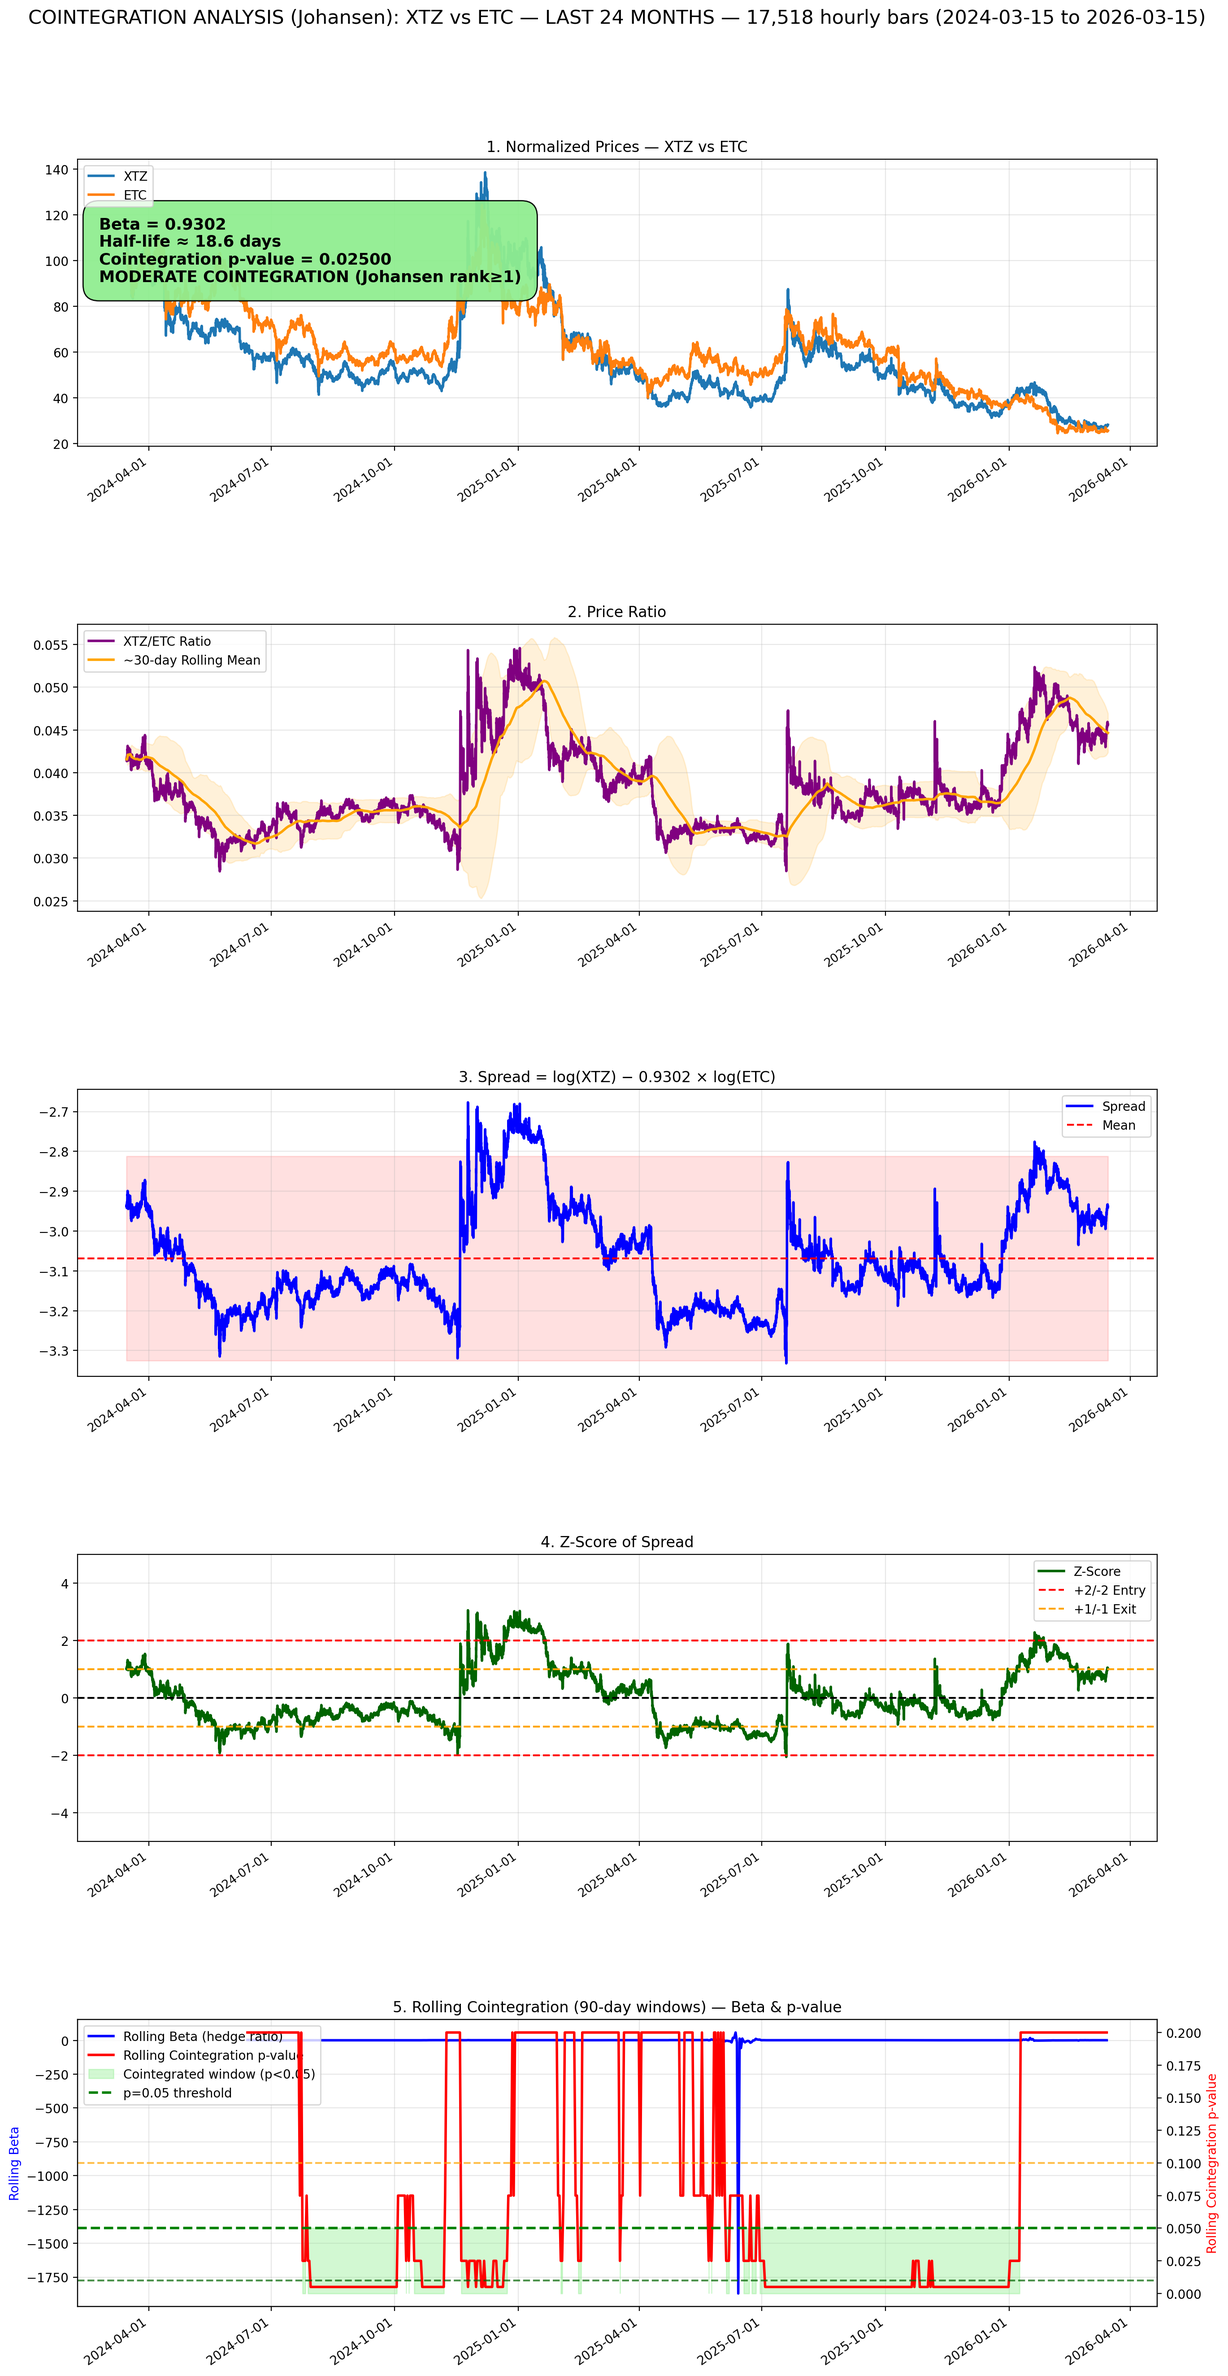
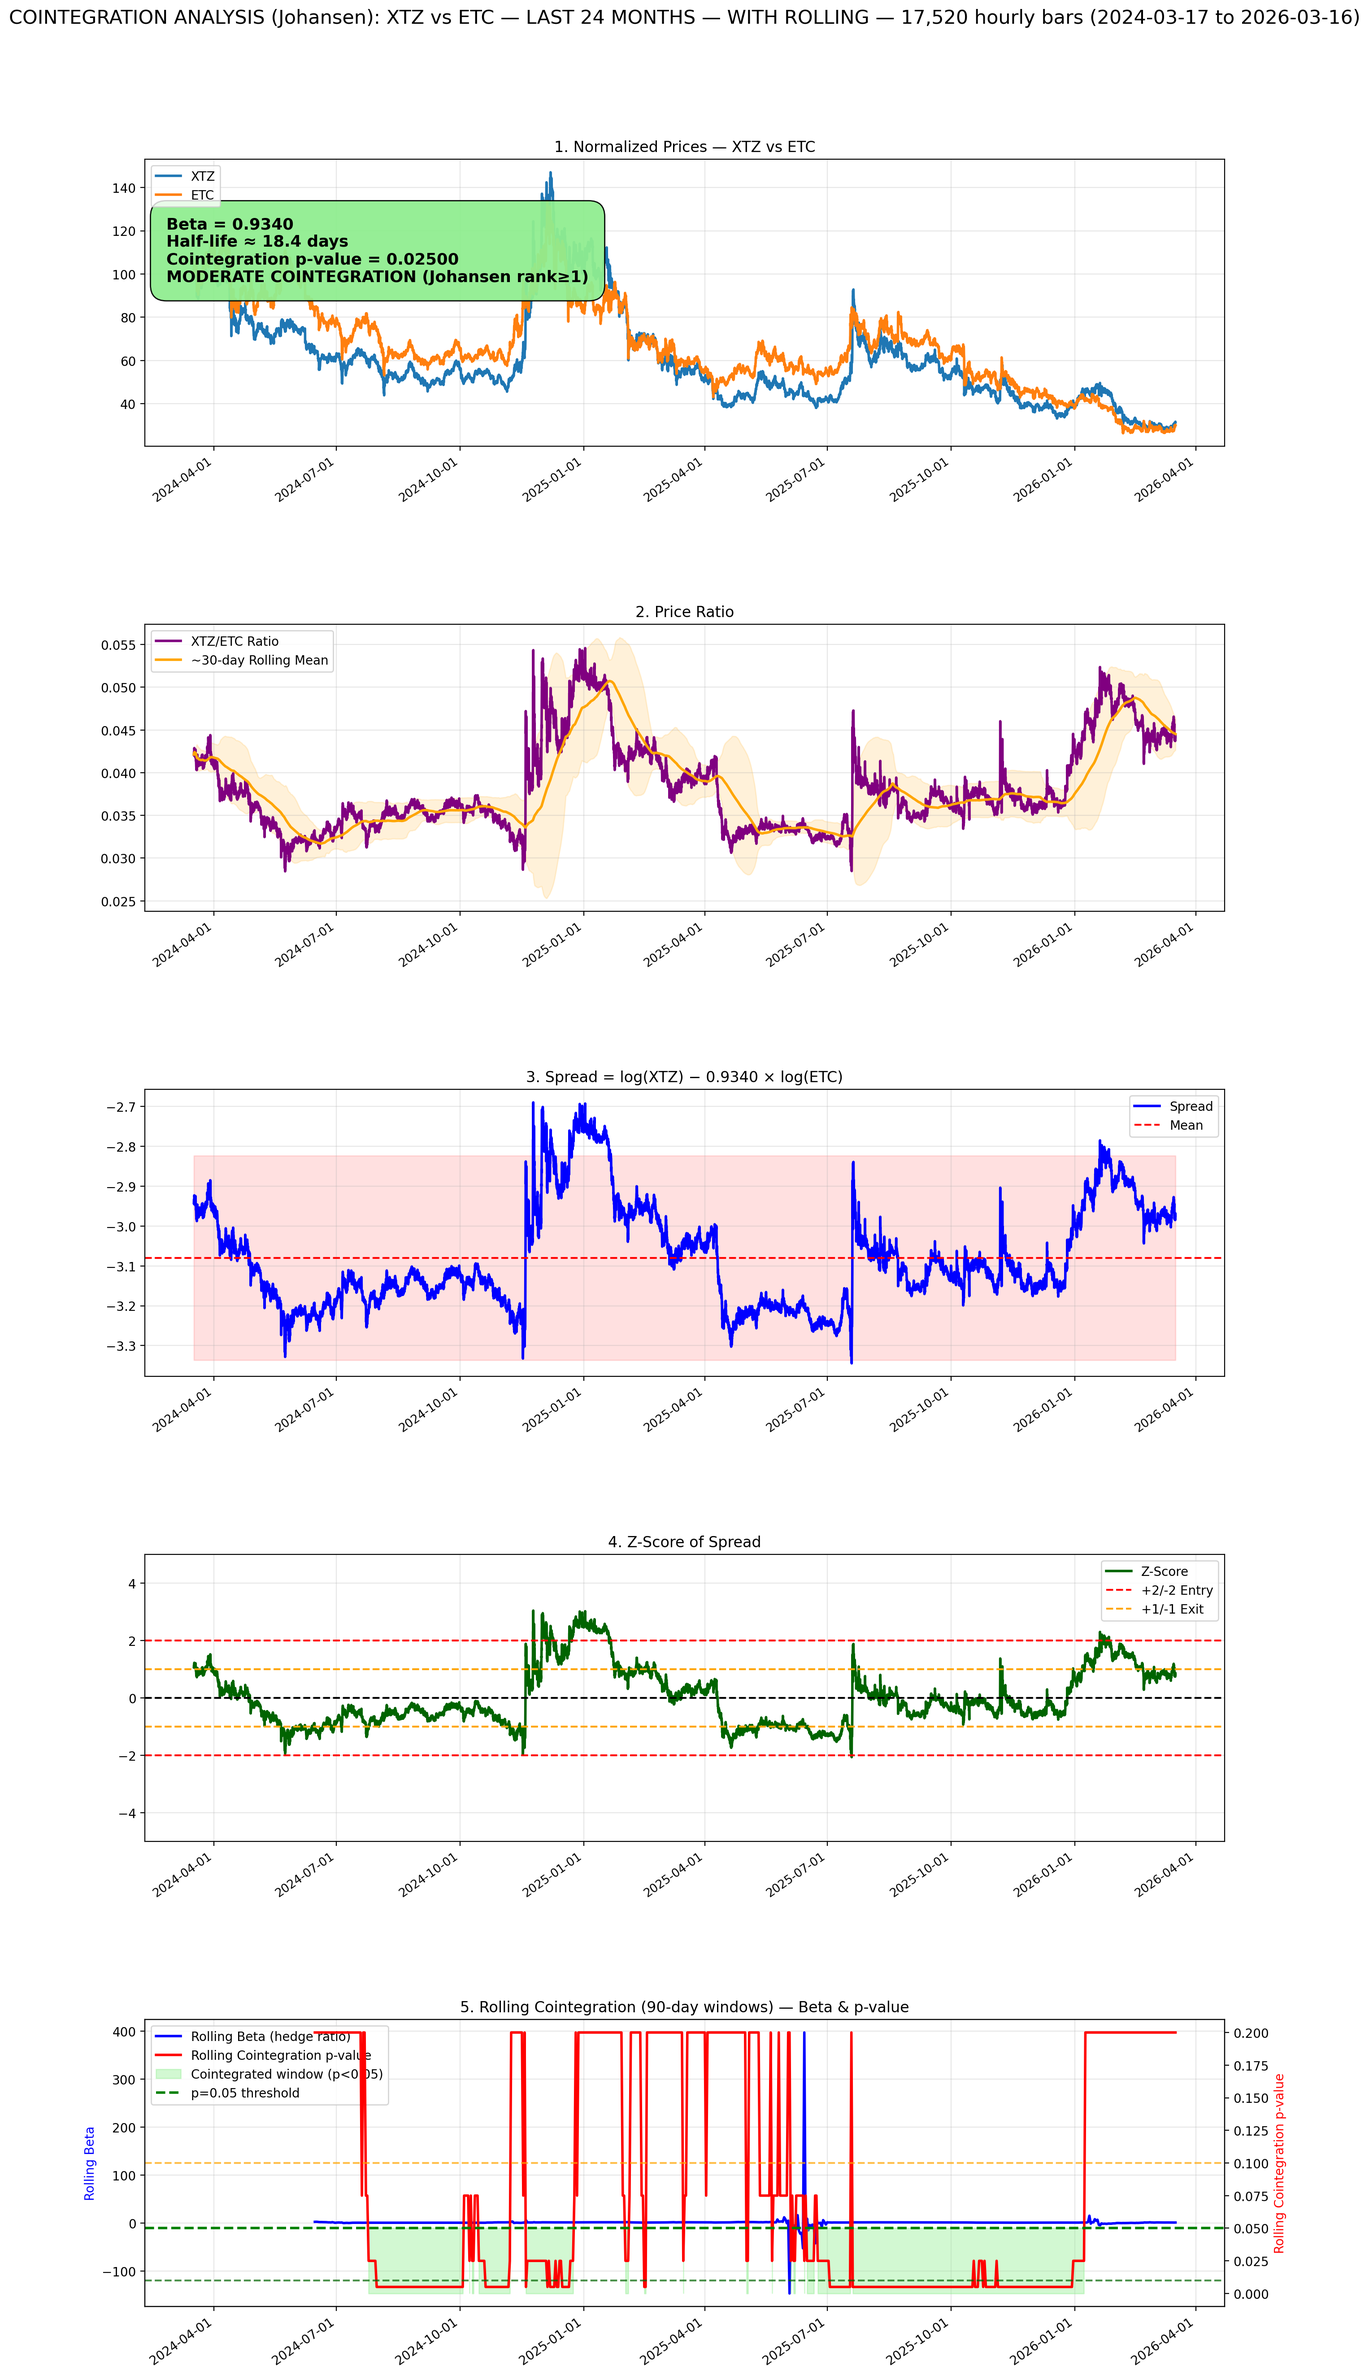
rolling calculations on or off

diff --git a/src/pcv2/draw_cointegration_chart.py b/src/pcv2/draw_cointegration_chart.py
@@ -2,7 +2,7 @@ import matplotlib.pyplot as plt
 import pandas as pd
 import numpy as np
 import sys
-import matplotlib.dates as mdates                     # ← NEW: for clean date formatting on all charts
+import matplotlib.dates as mdates
 from get_cointegration import CointegrationAnalyzer
 from config import DEFAULT_COINTEGRATION_CORRELATION_MONTHS as DEFAULT_MAX_MONTHS, DEFAULT_CSV_FILE
 
@@ -10,22 +10,21 @@ from config import DEFAULT_COINTEGRATION_CORRELATION_MONTHS as DEFAULT_MAX_MONTH
 class CointegrationChart:
     """Only responsible for visualization. All heavy lifting is done by the analyzer."""
 
-    def __init__(self, sym1: str, sym2: str, csv_file: str = None, max_months: int = DEFAULT_MAX_MONTHS):
+    def __init__(self, sym1: str, sym2: str, csv_file: str = None, 
+                 max_months: int = DEFAULT_MAX_MONTHS, compute_rolling: bool = True):
         self.max_months = max_months
-        self.analyzer = CointegrationAnalyzer(sym1, sym2, csv_file, max_months)
+        self.compute_rolling = compute_rolling                     # ← NEW
+        self.analyzer = CointegrationAnalyzer(sym1, sym2, csv_file, max_months, compute_rolling)
 
     def generate(self):
-        # === 1. Compute everything (one clean call) ===
         results = self.analyzer.compute()
 
-        # === NEW: Prepare method strings (filename now uses _ per your request) ===
-        method_filename = results.method_used.lower()                    # ← CHANGED: engle_granger (no hyphen)
+        method_filename = results.method_used.lower()
         method_display = results.method_used.replace('_', ' ').title().replace(' ', '-')
 
-        # ====================== 5 CHARTS ======================
         fig, axs = plt.subplots(5, 1, figsize=(14, 28),
                                 sharex=True,
-                                gridspec_kw={'hspace': 0.62},          # ← INCREASED for date labels
+                                gridspec_kw={'hspace': 0.62},
                                 constrained_layout=False)
 
         fig.subplots_adjust(top=0.905, bottom=0.05, left=0.07, right=0.93, hspace=0.62)
@@ -88,70 +87,80 @@ class CointegrationChart:
         axs[3].grid(True, alpha=0.3)
         axs[3].set_ylim(-5, 5)
 
-        # CHART 5 – Rolling Beta & p-value (unchanged)
+        # ==================== CHART 5 – ROLLING (NOW OPTIONAL) ====================
         ax_beta = axs[4]
-        ax_p = ax_beta.twinx()
-        ax_beta.plot(results.rolling_dates, results.rolling_betas,
-                     color='blue', linewidth=2, label='Rolling Beta (hedge ratio)')
-        ax_p.plot(results.rolling_dates, results.rolling_pvals,
-                  color='red', linewidth=2, label='Rolling Cointegration p-value')
+        if self.compute_rolling and results.rolling_dates:
+            ax_p = ax_beta.twinx()
+            ax_beta.plot(results.rolling_dates, results.rolling_betas,
+                         color='blue', linewidth=2, label='Rolling Beta (hedge ratio)')
+            ax_p.plot(results.rolling_dates, results.rolling_pvals,
+                      color='red', linewidth=2, label='Rolling Cointegration p-value')
 
-        dates_arr = pd.to_datetime(results.rolling_dates)
-        mask = np.array(results.rolling_pvals) < 0.05
-        ax_p.fill_between(dates_arr, 0, 0.05, where=mask,
-                          color='lightgreen', alpha=0.4,
-                          label='Cointegrated window (p<0.05)')
+            dates_arr = pd.to_datetime(results.rolling_dates)
+            mask = np.array(results.rolling_pvals) < 0.05
+            ax_p.fill_between(dates_arr, 0, 0.05, where=mask,
+                              color='lightgreen', alpha=0.4,
+                              label='Cointegrated window (p<0.05)')
 
-        ax_p.axhline(0.01, color='darkgreen', linestyle='--', alpha=0.7)
-        ax_p.axhline(0.05, color='green', linestyle='--', linewidth=2, label='p=0.05 threshold')
-        ax_p.axhline(0.10, color='orange', linestyle='--', alpha=0.7)
+            ax_p.axhline(0.01, color='darkgreen', linestyle='--', alpha=0.7)
+            ax_p.axhline(0.05, color='green', linestyle='--', linewidth=2, label='p=0.05 threshold')
+            ax_p.axhline(0.10, color='orange', linestyle='--', alpha=0.7)
 
-        ax_beta.set_ylabel('Rolling Beta', color='blue')
-        ax_p.set_ylabel('Rolling Cointegration p-value', color='red')
-        ax_beta.set_title(f"5. Rolling Cointegration ({self.analyzer.ROLLING_WINDOW_DAYS}-day windows) — Beta & p-value")
-        ax_beta.grid(True, alpha=0.3)
+            ax_beta.set_ylabel('Rolling Beta', color='blue')
+            ax_p.set_ylabel('Rolling Cointegration p-value', color='red')
+            ax_beta.set_title(f"5. Rolling Cointegration ({self.analyzer.ROLLING_WINDOW_DAYS}-day windows) — Beta & p-value")
+            ax_beta.grid(True, alpha=0.3)
 
-        lines1, labels1 = ax_beta.get_legend_handles_labels()
-        lines2, labels2 = ax_p.get_legend_handles_labels()
-        ax_beta.legend(lines1 + lines2, labels1 + labels2, loc='upper left', fontsize=10)
+            lines1, labels1 = ax_beta.get_legend_handles_labels()
+            lines2, labels2 = ax_p.get_legend_handles_labels()
+            ax_beta.legend(lines1 + lines2, labels1 + labels2, loc='upper left', fontsize=10)
+        else:
+            # Disabled panel (clean visual feedback)
+            ax_beta.text(0.5, 0.5,
+                         "ROLLING COINTEGRATION\n\n"
+                         "DISABLED\n\n"
+                         "(compute_rolling=False)",
+                         transform=ax_beta.transAxes, ha='center', va='center',
+                         fontsize=14, fontweight='bold', color='#555555')
+            ax_beta.set_title("5. Rolling Cointegration — DISABLED")
+            ax_beta.set_facecolor('#f8f8f8')
 
         # ================== SHOW DATES ON EVERY CHART ==================
-        # Force x-tick labels visible on all 5 panels + clean formatting
-        # (matplotlib hides them by default when sharex=True)
         for i, ax in enumerate(axs):
             ax.tick_params(axis='x', labelbottom=True)
             plt.setp(ax.get_xticklabels(), rotation=35, ha='right')
             ax.xaxis.set_major_formatter(mdates.DateFormatter('%Y-%m-%d'))
         
-        # Slightly smaller font on the top 4 charts (keeps visual weight balanced)
         for ax in axs[:-1]:
             plt.setp(ax.get_xticklabels(), fontsize=9.5)
 
-        # === UPDATED SUPTITLE + FILENAME (only filename uses _) ===
+        # === UPDATED SUPTITLE + FILENAME ===
+        rolling_status = "WITH ROLLING" if self.compute_rolling else "NO ROLLING"
         fig.suptitle(f"COINTEGRATION ANALYSIS ({method_display}): "
                      f"{self.analyzer.sym1} vs {self.analyzer.sym2} — "
-                     f"LAST {self.max_months} MONTHS — "
+                     f"LAST {self.max_months} MONTHS — {rolling_status} — "
                      f"{len(results.p1):,} hourly bars "
                      f"({results.p1.index[0].date()} to {results.p1.index[-1].date()})",
                      fontsize=15.5, y=0.965)
 
-        output_file = f"cointegration_{self.analyzer.sym1}_{self.analyzer.sym2}_{method_filename}_{self.max_months}m_with_rolling.png"
+        rolling_tag = "with_rolling" if self.compute_rolling else "no_rolling"
+        output_file = f"cointegration_{self.analyzer.sym1}_{self.analyzer.sym2}_{method_filename}_{self.max_months}m_{rolling_tag}.png"
         plt.savefig(output_file, dpi=200, bbox_inches='tight')
         plt.close(fig)
-        print(f"\n✅ Saved: {output_file}  (method: {method_display})")
+        print(f"\n✅ Saved: {output_file}  (rolling={'ON' if self.compute_rolling else 'OFF'})")
 
 
 if __name__ == "__main__":
-    # (CLI parsing unchanged)
     csv_file = None
     sym1 = "ETH"
     sym2 = "BTC"
     max_months = DEFAULT_MAX_MONTHS
+    compute_rolling = True
 
-    if len(sys.argv) == 1:
-        print(f"⚡ No symbols provided → Using default pair: ETH / BTC (last {max_months} months)")
-    else:
+    if len(sys.argv) > 1:
         args = sys.argv[1:]
+        if args and args[-1].lower() in ['true', 'false', '1', '0', 'yes', 'no']:
+            compute_rolling = args.pop().lower() in ['true', '1', 'yes']
         if args and args[-1].isdigit():
             max_months = int(args.pop())
 
@@ -160,15 +169,14 @@ if __name__ == "__main__":
         elif len(args) == 2:
             sym1 = args[0].upper()
             sym2 = args[1].upper()
-            csv_file = None
         elif len(args) == 3:
             csv_file = args[0]
             sym1 = args[1].upper()
             sym2 = args[2].upper()
         else:
-            print(f"Usage: python {sys.argv[0]} [CSV_FILE] SYM1 SYM2 [max_months]")
-            print("   Example: python draw_cointegration_chart.py ETH SOL 3")
+            print(f"Usage: python {sys.argv[0]} [CSV_FILE] SYM1 SYM2 [max_months] [true/false]")
+            print("   Example: python draw_cointegration_chart.py ETH SOL 3 false")
             sys.exit(1)
 
-    chart = CointegrationChart(sym1, sym2, csv_file, max_months)
+    chart = CointegrationChart(sym1, sym2, csv_file, max_months, compute_rolling)
     chart.generate()

diff --git a/src/pcv2/get_cointegration.py b/src/pcv2/get_cointegration.py
@@ -7,7 +7,7 @@ from cointegration_engine import compute_cointegration
 from config import (
     DEFAULT_COINTEGRATION_CORRELATION_MONTHS as DEFAULT_MAX_MONTHS,
     DEFAULT_CSV_FILE,
-    DEFAULT_COINTEGRATION_METHOD          # ← NEW
+    DEFAULT_COINTEGRATION_METHOD
 )
 
 
@@ -30,18 +30,20 @@ class CointegrationResults:
     ratio: pd.Series
     ratio_rolling_mean: pd.Series
     ratio_rolling_std: pd.Series
-    method_used: str          # ← NEW: e.g. "ENGLE_GRANGER" or "JOHANSEN"
+    method_used: str
 
 
 class CointegrationAnalyzer:
     DEFAULT_CSV = DEFAULT_CSV_FILE
     ROLLING_WINDOW_DAYS = 90
 
-    def __init__(self, sym1: str, sym2: str, csv_file: Optional[str] = None, max_months: int = DEFAULT_MAX_MONTHS):
+    def __init__(self, sym1: str, sym2: str, csv_file: Optional[str] = None, 
+                 max_months: int = DEFAULT_MAX_MONTHS, compute_rolling: bool = True):
         self.sym1 = sym1.upper()
         self.sym2 = sym2.upper()
         self.csv_file = csv_file or self.DEFAULT_CSV
         self.max_months = max_months
+        self.compute_rolling = compute_rolling          # ← NEW
         self.results: Optional[CointegrationResults] = None
 
     def _load_data(self) -> Tuple[pd.Series, pd.Series]:
@@ -51,7 +53,6 @@ class CointegrationAnalyzer:
 
         df = pd.read_csv(self.csv_file, parse_dates=['datetime'])
 
-        # === IMPROVED MAXIMUM TIMEFRAME FILTER (30.437 days per month) ===
         end_date = df['datetime'].max()
         days_back = int(self.max_months * 30.437)
         start_date = end_date - pd.Timedelta(days=days_back)
@@ -77,9 +78,8 @@ class CointegrationAnalyzer:
     def compute(self) -> CointegrationResults:
         p1, p2 = self._load_data()
 
-        # === FULL-SAMPLE RESULTS — USING CENTRAL ENGINE ===
-        eg = compute_cointegration(p1, p2, method=DEFAULT_COINTEGRATION_METHOD)   # ← UPDATED
-
+        # === FULL-SAMPLE RESULTS ===
+        eg = compute_cointegration(p1, p2, method=DEFAULT_COINTEGRATION_METHOD)
         beta = eg.beta
         spread = eg.spread
         zscore = eg.zscore
@@ -90,33 +90,34 @@ class CointegrationAnalyzer:
         box_color = eg.box_color
         method_used = eg.method_used.value
 
-        # === Verdict print (unchanged) ===
         print(f"\n=== FULL-SAMPLE RESULTS — LAST {self.max_months} MONTHS ===")
         print(f"Hedge ratio (beta): {beta:.4f}")
         print(f"Cointegration p-value: {p_value:.6f}")
         print(f"Half-life: {half_life_days:.1f} days")
         print(f"→ {verdict_console}")
 
-        # === ROLLING COINTEGRATION ===
-        print(f"\nComputing rolling cointegration ({self.ROLLING_WINDOW_DAYS}-day windows, updated daily) "
-              f"on last {self.max_months} months...")
-
-        window = self.ROLLING_WINDOW_DAYS * 24
-        step = 24
+        # === ROLLING COINTEGRATION (OPTIONAL) ===
         rolling_dates, rolling_betas, rolling_pvals = [], [], []
+        if self.compute_rolling:
+            print(f"\nComputing rolling cointegration ({self.ROLLING_WINDOW_DAYS}-day windows, updated daily) "
+                  f"on last {self.max_months} months...")
+            window = self.ROLLING_WINDOW_DAYS * 24
+            step = 24
 
-        for i in range(0, len(p1) - window + 1, step):
-            win1 = p1.iloc[i:i + window]
-            win2 = p2.iloc[i:i + window]
-            eg_win = compute_cointegration(win1, win2, method=DEFAULT_COINTEGRATION_METHOD)   # ← UPDATED
-            rolling_betas.append(eg_win.beta)
-            rolling_pvals.append(eg_win.p_value)
-            rolling_dates.append(p1.index[i + window - 1])
+            for i in range(0, len(p1) - window + 1, step):
+                win1 = p1.iloc[i:i + window]
+                win2 = p2.iloc[i:i + window]
+                eg_win = compute_cointegration(win1, win2, method=DEFAULT_COINTEGRATION_METHOD)
+                rolling_betas.append(eg_win.beta)
+                rolling_pvals.append(eg_win.p_value)
+                rolling_dates.append(p1.index[i + window - 1])
 
-        print(f"Rolling windows computed: {len(rolling_dates):,} "
-              f"(method: {method_used})")
+            print(f"Rolling windows computed: {len(rolling_dates):,} "
+                  f"(method: {method_used})")
+        else:
+            print("\n⚡ Rolling cointegration skipped (compute_rolling=False)")
 
-        # === Ratio stats (unchanged) ===
+        # === Ratio stats ===
         ratio = p1 / p2
         ratio_rolling_mean = ratio.rolling(window=720, min_periods=1).mean()
         ratio_rolling_std = ratio.rolling(window=720, min_periods=1).std()
@@ -136,34 +137,33 @@ class CointegrationAnalyzer:
 
 
 if __name__ == "__main__":
-    # (CLI parsing unchanged – exactly as before)
     csv_file = None
     sym1 = "ETH"
     sym2 = "BTC"
     max_months = DEFAULT_MAX_MONTHS
+    compute_rolling = True
 
-    if len(sys.argv) == 1:
-        print(f"⚡ No symbols provided → Using default pair: ETH / BTC (last {max_months} months)")
-    else:
+    if len(sys.argv) > 1:
         args = sys.argv[1:]
+        # Optional rolling flag at the end
+        if args and args[-1].lower() in ['true', 'false', '1', '0', 'yes', 'no']:
+            compute_rolling = args.pop().lower() in ['true', '1', 'yes']
+        # Optional max_months
         if args and args[-1].isdigit():
             max_months = int(args.pop())
 
-        if len(args) == 0:
-            print(f"⚡ No symbols provided → Using default pair: ETH / BTC (last {max_months} months)")
-        elif len(args) == 2:
+        if len(args) == 2:
             sym1 = args[0].upper()
             sym2 = args[1].upper()
-            csv_file = None
         elif len(args) == 3:
             csv_file = args[0]
             sym1 = args[1].upper()
             sym2 = args[2].upper()
         else:
-            print(f"Usage: python {sys.argv[0]} [CSV_FILE] SYM1 SYM2 [max_months]")
-            print("   Example: python get_cointegration.py ETH SOL 3")
+            print("Usage: python get_cointegration.py [CSV_FILE] SYM1 SYM2 [max_months] [true/false]")
+            print("Example: python get_cointegration.py ETH SOL 3 false")
             sys.exit(1)
 
-    analyzer = CointegrationAnalyzer(sym1, sym2, csv_file, max_months)
+    analyzer = CointegrationAnalyzer(sym1, sym2, csv_file, max_months, compute_rolling)
     analyzer.compute()
-    print(f"\n✅ Analysis complete for {sym1}/{sym2} (last {max_months} months)")
+    print(f"\n✅ Analysis complete for {sym1}/{sym2} (rolling={'ON' if compute_rolling else 'OFF'})")
